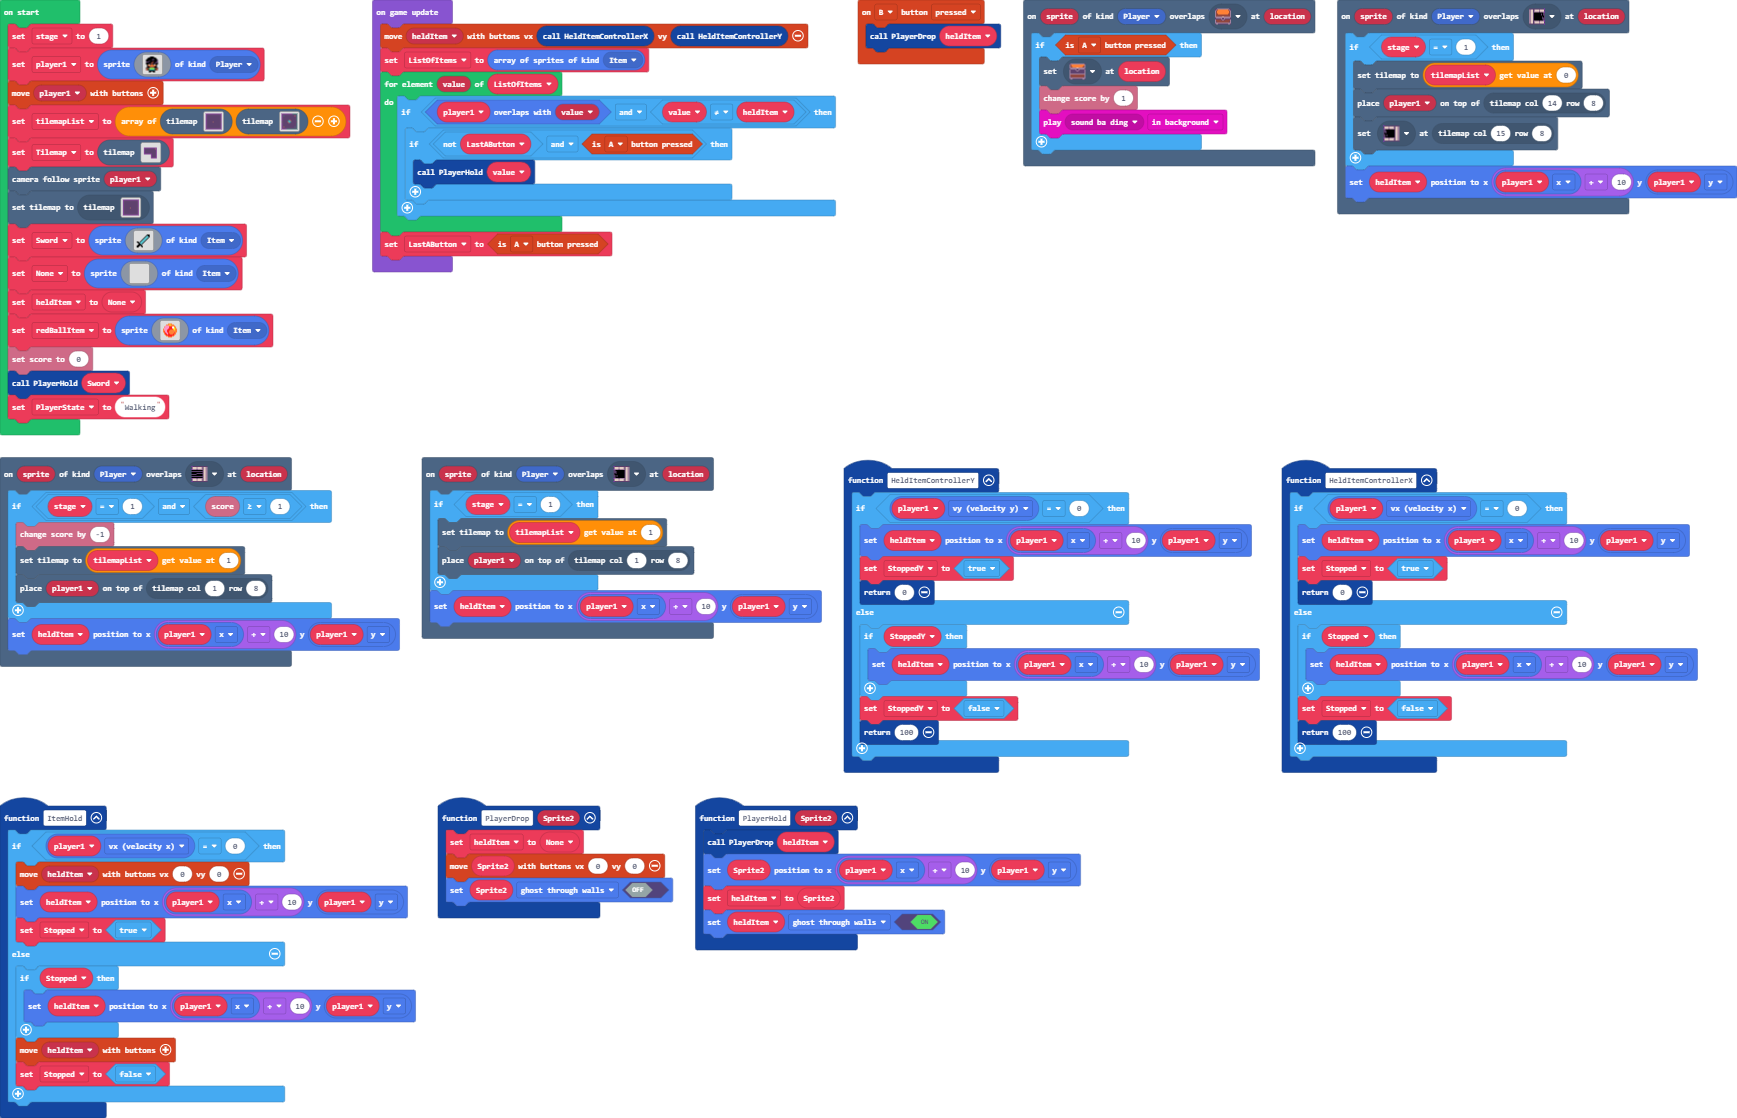
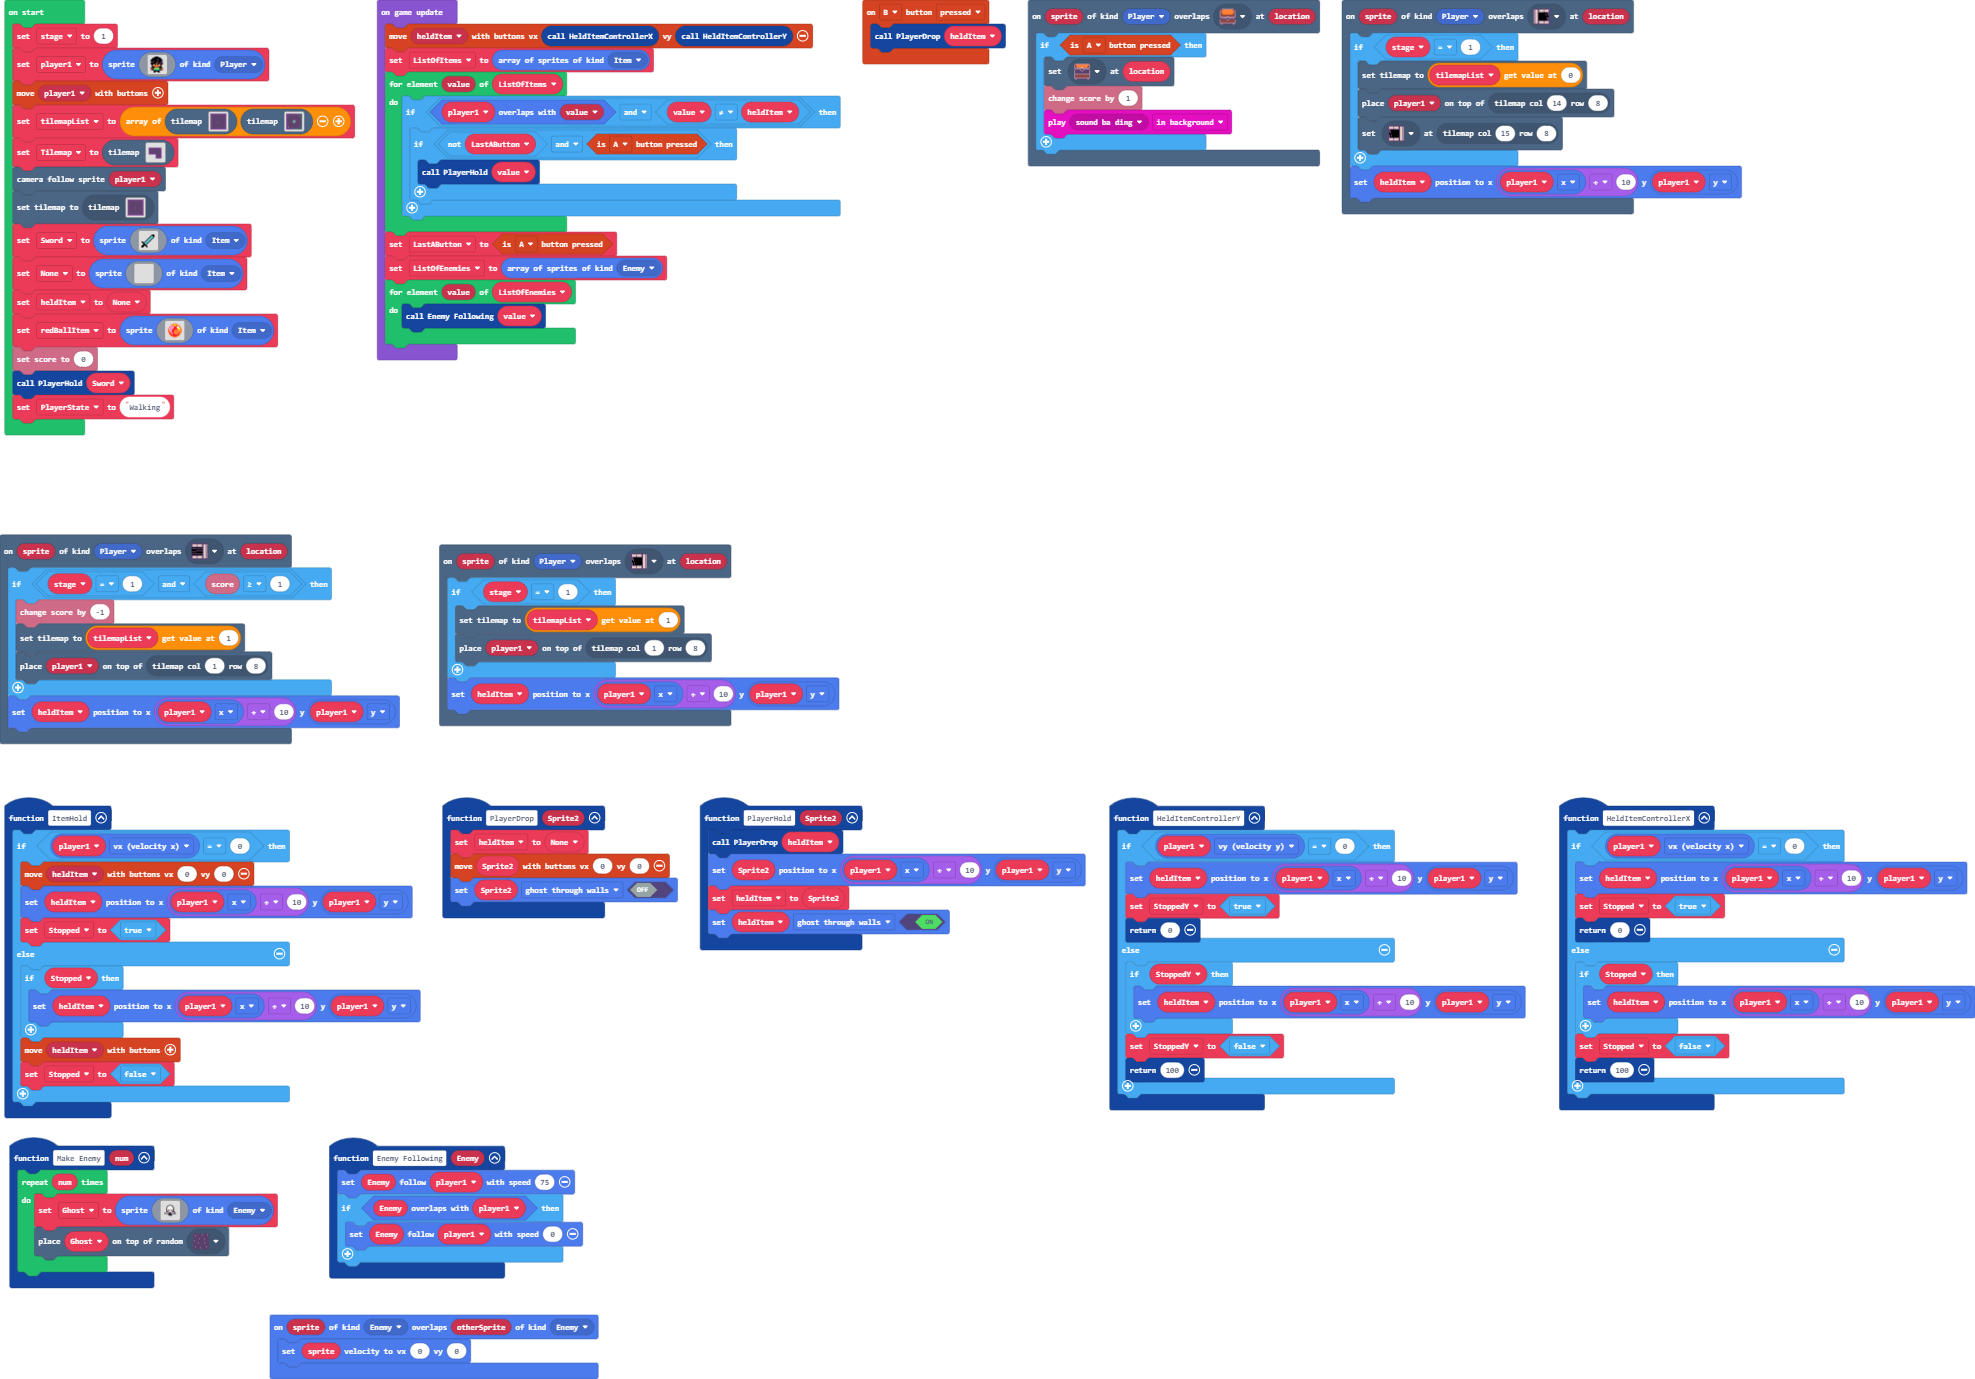
started enemies

diff --git a/main.ts b/main.ts
@@ -1,6 +1,37 @@
 namespace SpriteKind {
     export const Item = SpriteKind.create()
 }
+function Make_Enemy (num: number) {
+    for (let index = 0; index < num; index++) {
+        Ghost = sprites.create(img`
+            ........................
+            ........................
+            ........................
+            ........................
+            ..........ffff..........
+            ........ff1111ff........
+            .......fb111111bf.......
+            .......f11111111f.......
+            ......fd11111111df......
+            ......fd11111111df......
+            ......fddd1111dddf......
+            ......fbdbfddfbdbf......
+            ......fcdcf11fcdcf......
+            .......fb111111bf.......
+            ......fffcdb1bdffff.....
+            ....fc111cbfbfc111cf....
+            ....f1b1b1ffff1b1b1f....
+            ....fbfbffffffbfbfbf....
+            .........ffffff.........
+            ...........fff..........
+            ........................
+            ........................
+            ........................
+            ........................
+            `, SpriteKind.Enemy)
+        tiles.placeOnRandomTile(Ghost, sprites.dungeon.darkGroundCenter)
+    }
+}
 scene.onOverlapTile(SpriteKind.Player, sprites.dungeon.doorClosedEast, function (sprite, location) {
     if (stage == 1 && info.score() >= 1) {
         info.changeScoreBy(-1)
@@ -25,12 +56,21 @@ function PlayerHold (Sprite2: Sprite) {
     heldItem = Sprite2
     heldItem.setFlag(SpriteFlag.GhostThroughWalls, true)
 }
+function Enemy_Following (Enemy: Sprite) {
+    Enemy.follow(player1, 75)
+    if (Enemy.overlapsWith(player1)) {
+        Enemy.follow(player1, 0)
+    }
+}
 scene.onOverlapTile(SpriteKind.Player, sprites.dungeon.doorOpenEast, function (sprite, location) {
     if (stage == 1) {
         tiles.setCurrentTilemap(tilemapList[1])
         tiles.placeOnTile(player1, tiles.getTileLocation(1, 8))
     }
     heldItem.setPosition(player1.x + 10, player1.y)
+})
+sprites.onOverlap(SpriteKind.Enemy, SpriteKind.Enemy, function (sprite, otherSprite) {
+    sprite.setVelocity(0, 0)
 })
 function PlayerDrop (Sprite2: Sprite) {
     heldItem = None
@@ -84,10 +124,12 @@ function HeldItemControllerX () {
         return 100
     }
 }
+let ListOfEnemies: Sprite[] = []
 let LastAButton = false
 let ListOfItems: Sprite[] = []
 let StoppedY = false
 let Stopped = false
+let Ghost: Sprite = null
 let heldItem: Sprite = null
 let None: Sprite = null
 let tilemapList: tiles.TileMapData[] = []
@@ -186,4 +228,8 @@ game.onUpdate(function () {
         }
     }
     LastAButton = controller.A.isPressed()
+    ListOfEnemies = sprites.allOfKind(SpriteKind.Enemy)
+    for (let value of ListOfEnemies) {
+        Enemy_Following(value)
+    }
 })
